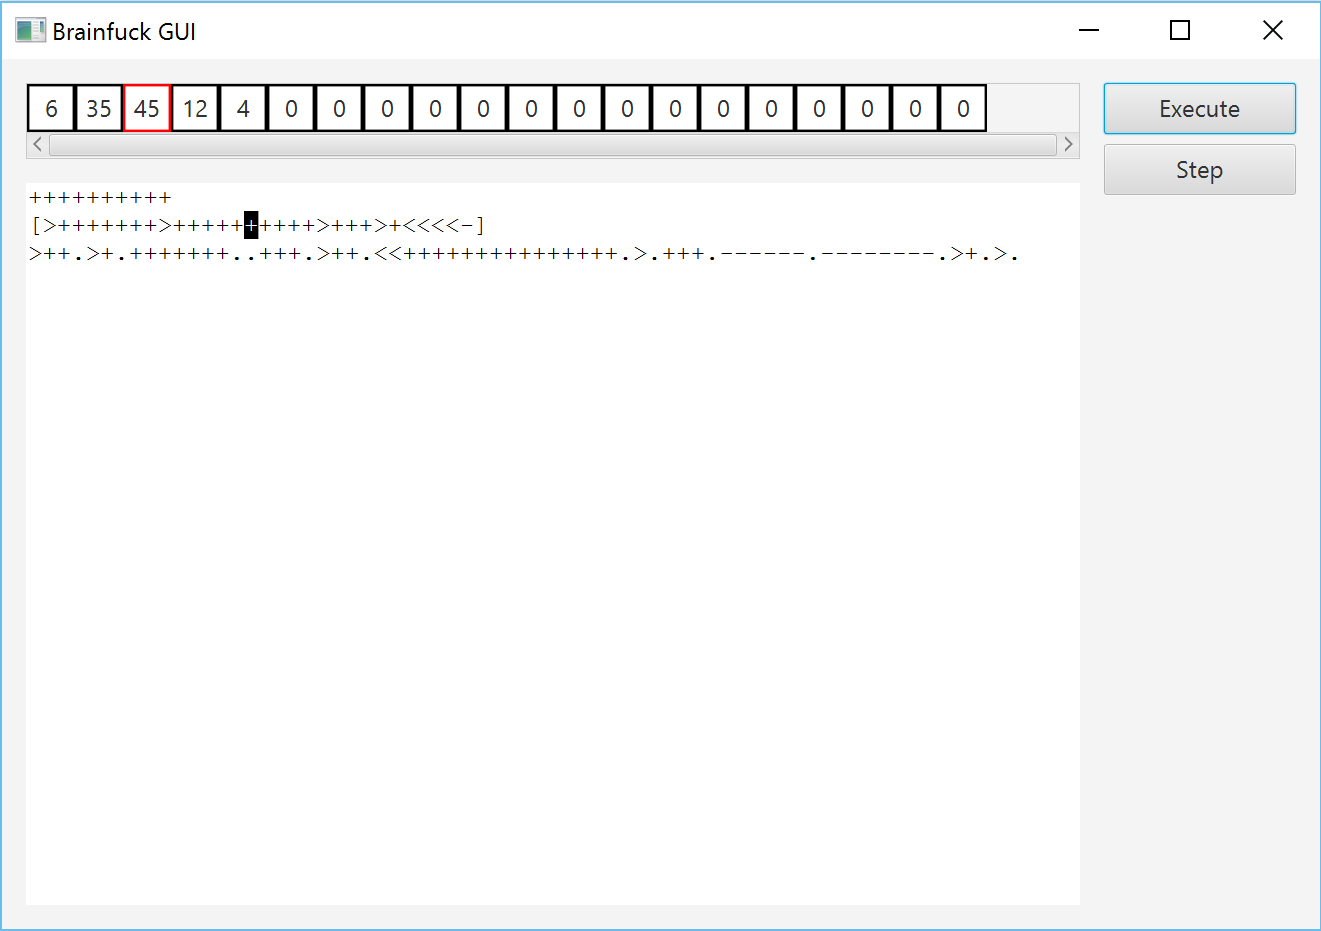
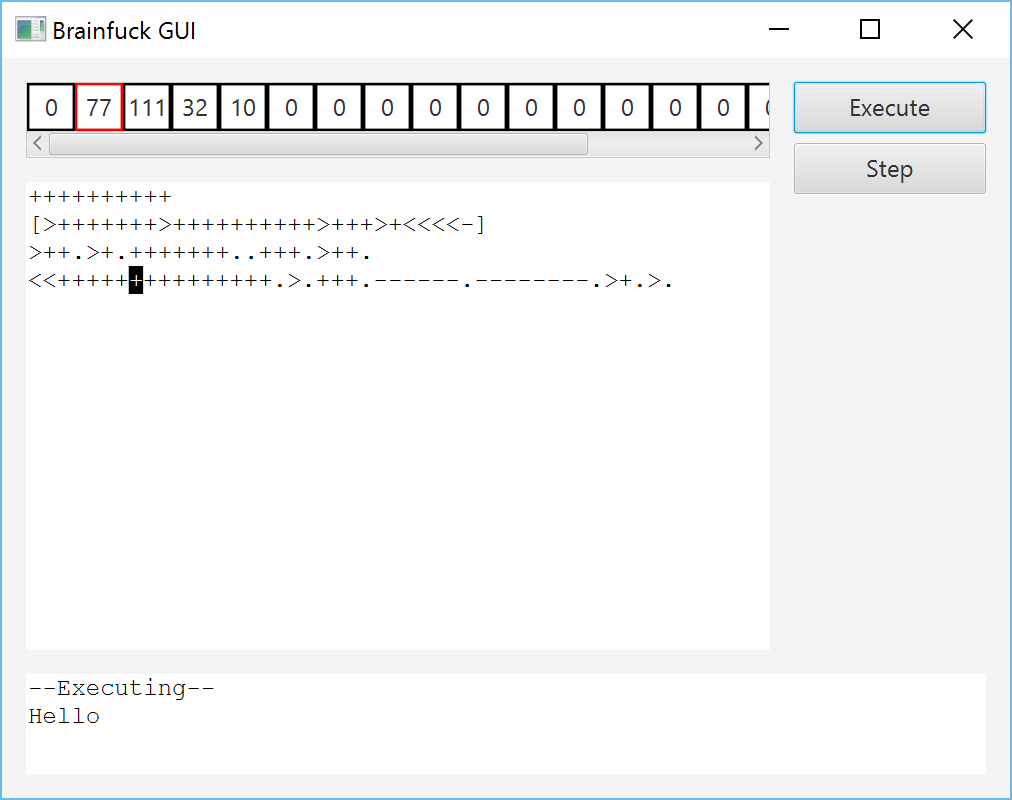
Added output console to gui

diff --git a/src/com/brechtvandevoort/brainfuck/gui/brainfuckgui.css b/src/com/brechtvandevoort/brainfuck/gui/brainfuckgui.css
@@ -27,3 +27,8 @@
     -fx-pref-width: 8em;
     -fx-margin: 1em;
 }
+
+.outputText {
+    -fx-background-color: white;
+    -fx-fill-color: red;
+}

diff --git a/src/com/brechtvandevoort/brainfuck/gui/BrainfuckGUI.java b/src/com/brechtvandevoort/brainfuck/gui/BrainfuckGUI.java
@@ -19,6 +19,8 @@ import java.util.Observable;
 import java.util.Observer;
 
 /**
+ * GUI for editing and executing a Brainfuck program.
+ *
  * Created by brecht on 27/03/2016.
  */
 public class BrainfuckGUI extends Application implements Observer {
@@ -34,8 +36,10 @@ public class BrainfuckGUI extends Application implements Observer {
     private VBox _vBoxButtons;
     private Button _executeButton;
     private Button _stepButton;
+    private CodeArea _console;
 
     private static final int MIN_NUM_CELLS = 20;
+    private static final int DEFAULT_EXECUTION_INTERVAL = 50;
 
     public static void main(String[] args) {
         launch(args);
@@ -74,6 +78,7 @@ public class BrainfuckGUI extends Application implements Observer {
         initCells();
         initCodeArea();
         initButtons();
+        initConsole();
         initGridPane();
         initScene();
     }
@@ -124,6 +129,12 @@ public class BrainfuckGUI extends Application implements Observer {
         _vBoxButtons.getChildren().addAll(_executeButton, _stepButton);
     }
 
+    private void initConsole() {
+        _console = new CodeArea();
+        _console.setEditable(false);
+
+    }
+
     private void initGridPane() {
         ColumnConstraints column1 = new ColumnConstraints();
         //column1.setPercentWidth(80);
@@ -144,6 +155,7 @@ public class BrainfuckGUI extends Application implements Observer {
         _gridPane.add(_vBoxButtons, 1, 0, 1,2);
         _gridPane.add(_scrollPaneCells, 0, 0);
         _gridPane.add(_codeArea, 0, 1);
+        _gridPane.add(_console, 0, 2, 2, 1);
     }
 
     private void initScene() {
@@ -156,13 +168,21 @@ public class BrainfuckGUI extends Application implements Observer {
     private void executeProgram() {
         _brainfuckEngine = new BrainfuckEngine(_codeArea.getText());
         _brainfuckEngine.getBrainfuckInstance().addObserver(this);
-        _brainfuckEngine.setExecutionInterval(100);
+        _brainfuckEngine.setExecutionInterval(DEFAULT_EXECUTION_INTERVAL);
+
+        _console.appendText("--Executing--\n");
 
         Thread t = new Thread() {
             @Override
             public void run() {
                 _brainfuckEngine.execute();
                 System.out.println(_brainfuckEngine.getBrainfuckInstance().emptyOutputStream());
+                Platform.runLater(new Runnable() {
+                    @Override
+                    public void run() {
+                        _console.appendText("--Done--\n");
+                    }
+                });
             }
         };
 
@@ -193,5 +213,9 @@ public class BrainfuckGUI extends Application implements Observer {
             _codeArea.setEditable(true);
         }
         _codeArea.positionCaret(instruction+1);
+
+        while(instance.hasOutput()) {
+            _console.appendText("" + (char)instance.readFromOutputStream());
+        }
     }
 }

diff --git a/src/com/brechtvandevoort/brainfuck/interpreter/BrainfuckInstance.java b/src/com/brechtvandevoort/brainfuck/interpreter/BrainfuckInstance.java
@@ -4,6 +4,9 @@ import java.util.Observable;
 import java.util.concurrent.*;
 
 /**
+ * Data instance of a Brainfuck program.
+ * It contains the value of each cell and the current position of the pointer.
+ *
  * Created by brecht on 23/03/2016.
  */
 public class BrainfuckInstance extends Observable {
@@ -15,6 +18,7 @@ public class BrainfuckInstance extends Observable {
 
     private BlockingQueue<Byte> _inputStream;
     private BlockingQueue<Byte> _outputStream;
+    private String _completeOutput;
 
     public BrainfuckInstance() {
         _bytes = new byte[DATA_BYTES_SIZE];
@@ -22,6 +26,7 @@ public class BrainfuckInstance extends Observable {
         _usedRange = 0;
         _inputStream = new LinkedBlockingQueue<>();
         _outputStream = new LinkedBlockingQueue<>();
+        _completeOutput = "";
     }
 
     public void incrementPointer() {
@@ -107,10 +112,15 @@ public class BrainfuckInstance extends Observable {
     public void writeOutput() {
         try {
             _outputStream.put(_bytes[_pointer]);
+            _completeOutput += (char)_bytes[_pointer];
         } catch (InterruptedException e) {
             e.printStackTrace();
         }
         setChanged();
         notifyObservers();
+    }
+
+    public String getCompleteOutput() {
+        return _completeOutput;
     }
 }
